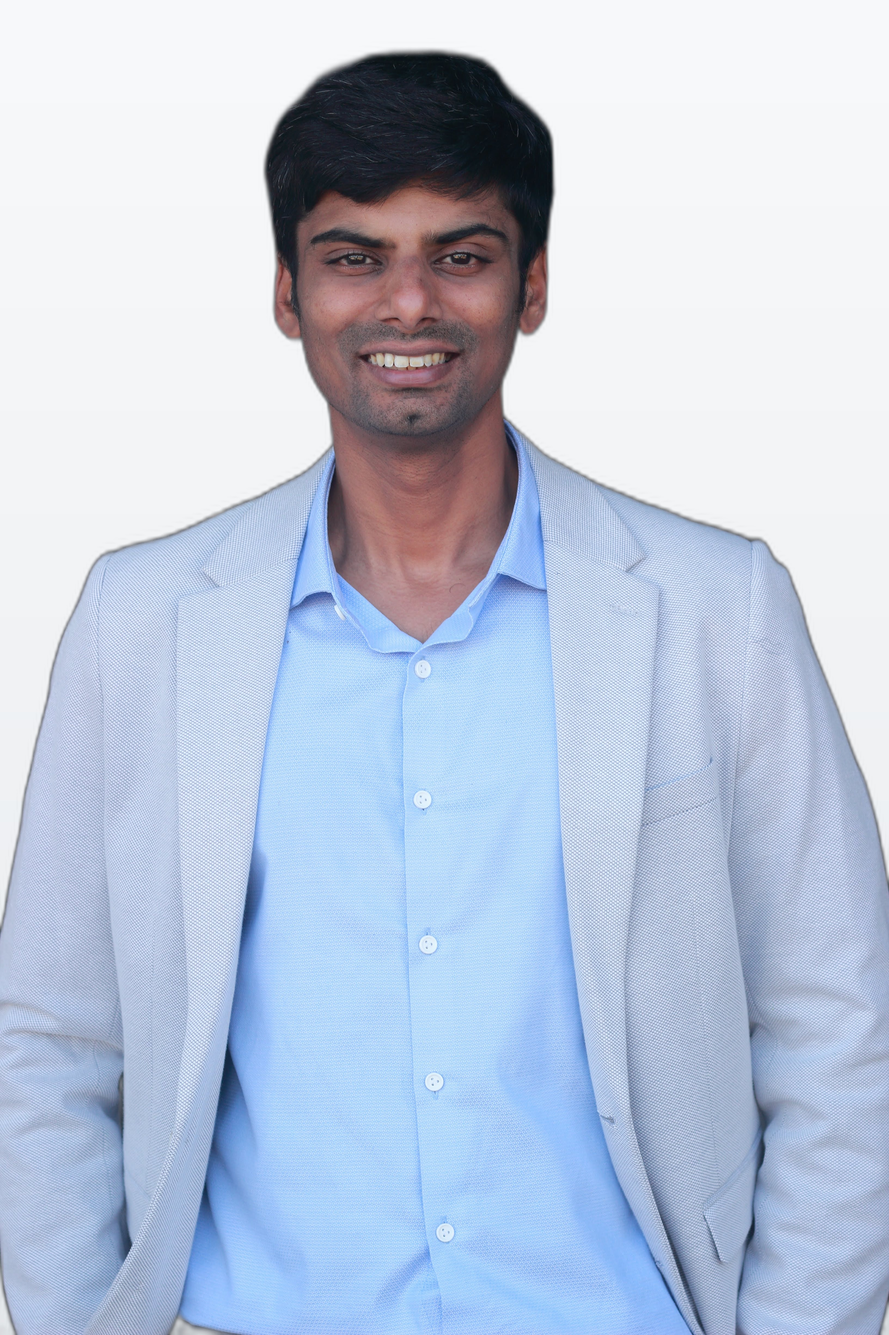
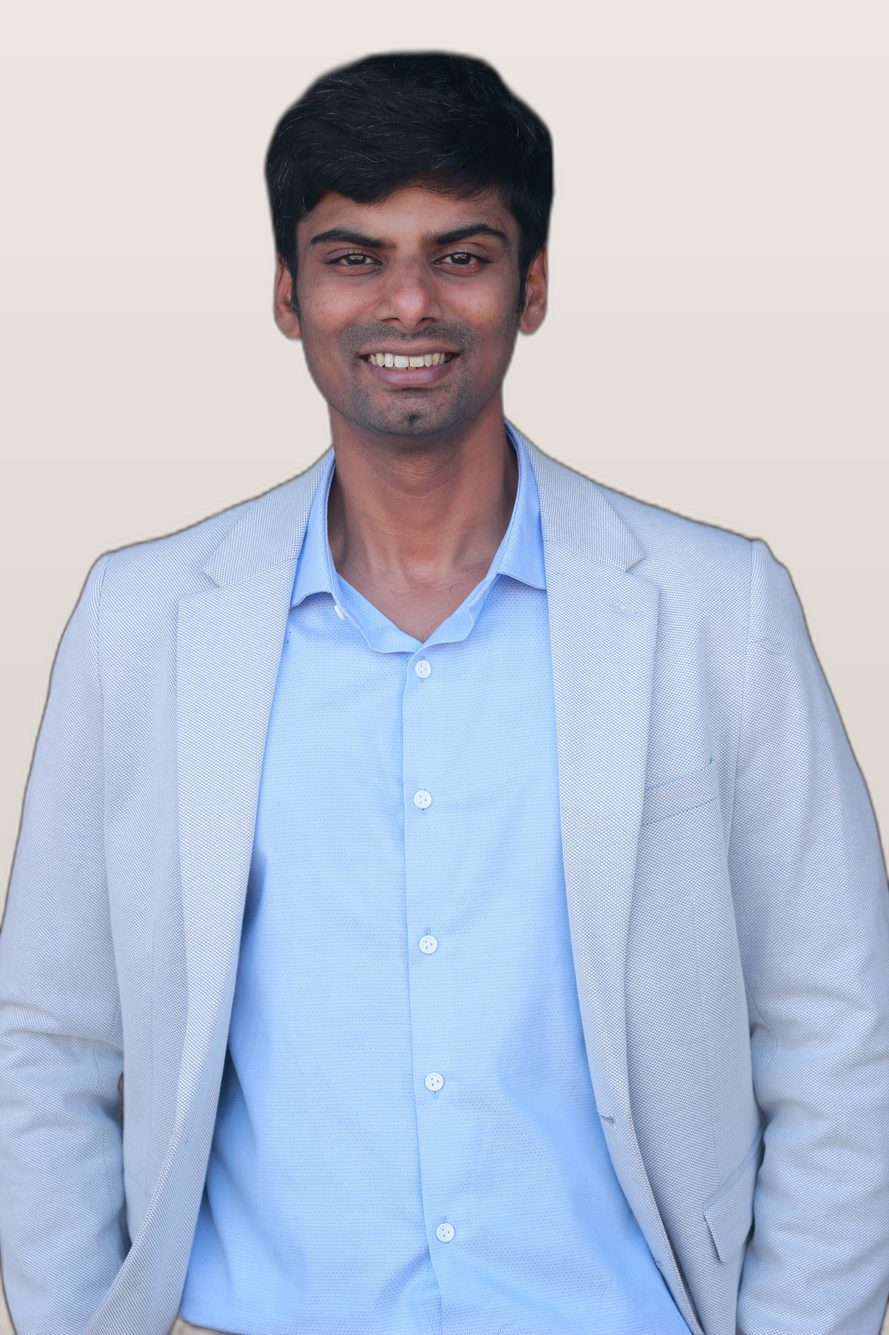
Refine photo bg, address autocomplete, savings calculation
Photo:
- Replace cold grey background with warm studio tone (#ede8e3 → #d5cec8)
  for a natural professional headshot look

Loan Health Check - Address autocomplete:
- AddressAutocomplete component using OpenStreetMap Nominatim (AU only)
- 400ms debounce, min 4 chars, shows up to 5 suggestions
- Closes on outside click; © OpenStreetMap attribution in dropdown
- Hint: "Helps Naveen research local lender options for your area"

Loan Health Check - Savings calculation:
- Remove arbitrary +$5000 from total savings
- Show 3-column breakdown: monthly / annual (×12) / 5-year (×60)
- Display formula: PMT(current%) − PMT(benchmark%) for transparency
- Benchmark rate footnote explains it is a competitive rate available
  through Spotto Finance's lender panel, not an arbitrary figure
- Pass monthlySavings, annualSavings, fiveYearSavings to callback email

diff --git a/src/pages/LoanHealthCheck.jsx b/src/pages/LoanHealthCheck.jsx
@@ -10,17 +10,119 @@ import {
   logUserAction,
 } from '../lib/firebase'
 
-// ─── Helpers ─────────────────────────────────────────────────────────────────
+// ─── Constants ────────────────────────────────────────────────────────────────
+// Benchmark = competitive variable rate currently available through Spotto Finance
+// (based on current lender pricing; updated periodically)
 const BENCHMARK_RATE = 4.89
 
+// ─── Helpers ─────────────────────────────────────────────────────────────────
 function formatCurrency(amount) {
   return `$${Number(amount.toFixed(0)).toLocaleString('en-AU')}`
 }
 
-function calcMonthly(principal, annualRate) {
-  const r = annualRate / 100 / 12
-  const n = 30 * 12
+/**
+ * Standard mortgage amortisation formula.
+ * Returns monthly repayment for a given principal, annual rate, and term (years).
+ * PMT = P × [r(1+r)^n] / [(1+r)^n − 1]
+ */
+function calcMonthly(principal, annualRate, termYears = 30) {
+  const r = annualRate / 100 / 12      // monthly rate
+  const n = termYears * 12             // total payments
   return (principal * r * Math.pow(1 + r, n)) / (Math.pow(1 + r, n) - 1)
+}
+
+// ─── Address autocomplete (OpenStreetMap Nominatim — AU only) ─────────────────
+function AddressAutocomplete({ value, onChange }) {
+  const [suggestions, setSuggestions] = useState([])
+  const [open, setOpen] = useState(false)
+  const [loading, setLoading] = useState(false)
+  const debounceRef = useRef(null)
+  const wrapperRef = useRef(null)
+
+  // Close dropdown when clicking outside
+  useEffect(() => {
+    const handler = (e) => {
+      if (wrapperRef.current && !wrapperRef.current.contains(e.target)) {
+        setOpen(false)
+      }
+    }
+    document.addEventListener('mousedown', handler)
+    return () => document.removeEventListener('mousedown', handler)
+  }, [])
+
+  const handleChange = (e) => {
+    const q = e.target.value
+    onChange(q)
+    clearTimeout(debounceRef.current)
+    if (q.length < 4) { setSuggestions([]); setOpen(false); return }
+    debounceRef.current = setTimeout(async () => {
+      setLoading(true)
+      try {
+        const url =
+          `https://nominatim.openstreetmap.org/search` +
+          `?format=json&countrycodes=au&addressdetails=1&limit=6` +
+          `&q=${encodeURIComponent(q)}`
+        const res = await fetch(url, {
+          headers: { 'Accept-Language': 'en-AU' },
+        })
+        const data = await res.json()
+        // Filter to address-like results (house, building, road, suburb)
+        const filtered = data
+          .filter((r) =>
+            ['house', 'building', 'residential', 'road', 'suburb', 'neighbourhood', 'quarter'].includes(r.type) ||
+            r.class === 'place' ||
+            r.address?.house_number
+          )
+          .slice(0, 5)
+          .map((r) => r.display_name)
+        setSuggestions(filtered)
+        setOpen(filtered.length > 0)
+      } catch {
+        // silently fail — address is optional
+      }
+      setLoading(false)
+    }, 400)
+  }
+
+  const select = (addr) => {
+    onChange(addr)
+    setOpen(false)
+    setSuggestions([])
+  }
+
+  return (
+    <div ref={wrapperRef} className="relative">
+      <div className="relative">
+        <input
+          className="form-input pr-8"
+          placeholder="Start typing an address…"
+          value={value}
+          onChange={handleChange}
+          onFocus={() => suggestions.length > 0 && setOpen(true)}
+          autoComplete="off"
+        />
+        {loading && (
+          <span className="absolute right-3 top-1/2 -translate-y-1/2">
+            <span className="spinner" />
+          </span>
+        )}
+      </div>
+      {open && suggestions.length > 0 && (
+        <ul className="absolute z-50 mt-1 w-full bg-white border border-gray-200 rounded-xl shadow-lg max-h-52 overflow-y-auto text-sm">
+          {suggestions.map((s, i) => (
+            <li
+              key={i}
+              className="px-4 py-2.5 hover:bg-brand-green-light cursor-pointer text-gray-700 border-b border-gray-50 last:border-0 leading-snug"
+              onMouseDown={(e) => { e.preventDefault(); select(s) }}
+            >
+              📍 {s}
+            </li>
+          ))}
+          <li className="px-4 py-1.5 text-gray-300 text-xs">© OpenStreetMap contributors</li>
+        </ul>
+      )}
+    </div>
+  )
 }
 
 // ─── Step indicator ───────────────────────────────────────────────────────────
@@ -192,28 +294,34 @@ function StepLoanDetails({ user, onResult }) {
     logButtonClick('Loan Health Check - Calculate')
     setLoading(true)
 
-    const currentMonthly = calcMonthly(principal, rate)
+    // ── Savings calculation ────────────────────────────────────────────────
+    // Monthly repayment = PMT(r/12, 30×12, principal)
+    // where r is the annual rate as a decimal.
+    // Annual savings = (current monthly − benchmark monthly) × 12
+    // 5-year indicative savings = annual savings × 5
+    const currentMonthly   = calcMonthly(principal, rate)
     const benchmarkMonthly = calcMonthly(principal, BENCHMARK_RATE)
-    const monthlySavings = currentMonthly - benchmarkMonthly
-    const yearlySavings = monthlySavings > 0 ? monthlySavings * 12 : 0
-    const totalSavings = yearlySavings + 5000
+    const monthlySavings   = currentMonthly - benchmarkMonthly
+    const annualSavings    = monthlySavings > 0 ? monthlySavings * 12 : 0
+    const fiveYearSavings  = annualSavings * 5
 
     const resultData = {
-      loanAmount: principal,
-      interestRate: rate,
+      loanAmount:      principal,
+      interestRate:    rate,
       propertyAddress,
       currentMonthly,
       benchmarkMonthly: monthlySavings > 0 ? benchmarkMonthly : currentMonthly,
-      yearlySavings,
-      totalSavings,
-      hasSavings: yearlySavings > 0,
+      monthlySavings:   monthlySavings > 0 ? monthlySavings : 0,
+      annualSavings,
+      fiveYearSavings,
+      hasSavings: annualSavings > 0,
     }
 
     try {
       await sendEmail({
         operationName: 'LoanHealthCheck',
-        name: user.name,
-        mobileNumber: user.mobileNumber,
+        name:            user.name,
+        mobileNumber:    user.mobileNumber,
         loanAmount,
         interestRate,
         propertyAddress,
@@ -261,12 +369,8 @@ function StepLoanDetails({ user, onResult }) {
       </div>
       <div>
         <label className="form-label">Property Address (optional)</label>
-        <input
-          className="form-input"
-          placeholder="e.g. 123 Main St, Melbourne"
-          value={propertyAddress}
-          onChange={(e) => setPropertyAddress(e.target.value)}
-        />
+        <AddressAutocomplete value={propertyAddress} onChange={setPropertyAddress} />
+        <p className="text-gray-400 text-xs mt-1">Helps Naveen research local lender options for your area.</p>
       </div>
       {error && <p className="text-red-500 text-sm">{error}</p>}
       <button className="btn-primary w-full" onClick={handleCalculate} disabled={loading}>
@@ -286,15 +390,17 @@ function StepResult({ user, result }) {
     setLoading(true)
     try {
       await sendEmail({
-        operationName: 'LoanHealthCheckCallBack',
-        name: user.name,
-        mobileNumber: user.mobileNumber,
-        loanAmount: result.loanAmount,
-        interestRate: result.interestRate,
-        propertyAddress: result.propertyAddress || '',
-        currentRepayment: `${formatCurrency(result.currentMonthly)} / month`,
+        operationName:      'LoanHealthCheckCallBack',
+        name:               user.name,
+        mobileNumber:       user.mobileNumber,
+        loanAmount:         result.loanAmount,
+        interestRate:       result.interestRate,
+        propertyAddress:    result.propertyAddress || '',
+        currentRepayment:   `${formatCurrency(result.currentMonthly)} / month`,
         potentialRepayment: `${formatCurrency(result.benchmarkMonthly)} / month`,
-        interestSavings: `${formatCurrency(result.yearlySavings)} / year`,
+        monthlySavings:     `${formatCurrency(result.monthlySavings)} / month`,
+        annualSavings:      `${formatCurrency(result.annualSavings)} / year`,
+        fiveYearSavings:    `${formatCurrency(result.fiveYearSavings)} over 5 years`,
       })
       logApiSuccess('Send email - Loan Health Check Callback')
     } catch {
@@ -320,12 +426,12 @@ function StepResult({ user, result }) {
         </p>
         <p className="text-sm opacity-90 mt-1">
           {result.hasSavings
-            ? `You may be paying more than the ${BENCHMARK_RATE}% benchmark rate.`
-            : `Your rate is at or below our ${BENCHMARK_RATE}% benchmark.`}
+            ? `You may be paying above our ${BENCHMARK_RATE}% benchmark rate.`
+            : `Your rate is at or below the ${BENCHMARK_RATE}% benchmark — well done!`}
         </p>
       </div>
 
-      {/* Comparison table */}
+      {/* Repayment comparison */}
       <div className="border border-gray-100 rounded-2xl overflow-hidden">
         <div className="bg-gray-50 px-4 py-2 text-xs font-semibold text-gray-400 uppercase tracking-wider">
           Monthly Repayment Comparison
@@ -352,21 +458,46 @@ function StepResult({ user, result }) {
         </div>
       </div>
 
-      {/* Savings highlight */}
+      {/* Savings breakdown — only shown when there are savings */}
       {result.hasSavings && (
-        <div className="bg-navy-700 text-white rounded-2xl p-5 text-center">
-          <p className="text-gray-300 text-sm">Potential annual savings</p>
-          <p className="text-3xl font-extrabold text-brand-green my-1">
-            {formatCurrency(result.yearlySavings)}/yr
-          </p>
-          <p className="text-xs text-gray-400">
-            Total potential savings: up to {formatCurrency(result.totalSavings)}*
+        <div className="bg-navy-700 text-white rounded-2xl p-5 space-y-3">
+          <p className="text-gray-300 text-xs font-semibold uppercase tracking-wider">Potential Savings</p>
+          <div className="grid grid-cols-3 gap-3 text-center">
+            <div>
+              <p className="text-brand-green font-extrabold text-lg">
+                {formatCurrency(result.monthlySavings)}
+              </p>
+              <p className="text-gray-400 text-xs mt-0.5">per month</p>
+            </div>
+            <div className="border-x border-white/10">
+              <p className="text-brand-green font-extrabold text-lg">
+                {formatCurrency(result.annualSavings)}
+              </p>
+              <p className="text-gray-400 text-xs mt-0.5">per year</p>
+            </div>
+            <div>
+              <p className="text-brand-green font-extrabold text-lg">
+                {formatCurrency(result.fiveYearSavings)}
+              </p>
+              <p className="text-gray-400 text-xs mt-0.5">over 5 yrs</p>
+            </div>
+          </div>
+          <p className="text-xs text-gray-400 text-center pt-1">
+            Monthly savings = PMT({result.interestRate}%) − PMT({BENCHMARK_RATE}%) · Annual = ×12 · 5-yr = ×60
           </p>
         </div>
       )}
 
-      <div className="bg-amber-50 border border-amber-200 rounded-xl p-3 text-xs text-amber-800">
-        *Estimates based on a 30-year loan term and market rate comparison. Actual savings depend on lender criteria and individual circumstances.
+      {/* Methodology note */}
+      <div className="bg-amber-50 border border-amber-200 rounded-xl p-3 text-xs text-amber-800 space-y-1">
+        <p>
+          <strong>Benchmark rate ({BENCHMARK_RATE}% p.a.)</strong> — a competitive variable rate currently
+          available to eligible borrowers through Spotto Finance&apos;s lender panel.
+        </p>
+        <p>
+          Calculations assume a 30-year principal-and-interest loan using the standard amortisation
+          formula. Actual savings depend on your lender, loan term, and individual credit assessment.
+        </p>
       </div>
 
       {/* CTA */}
